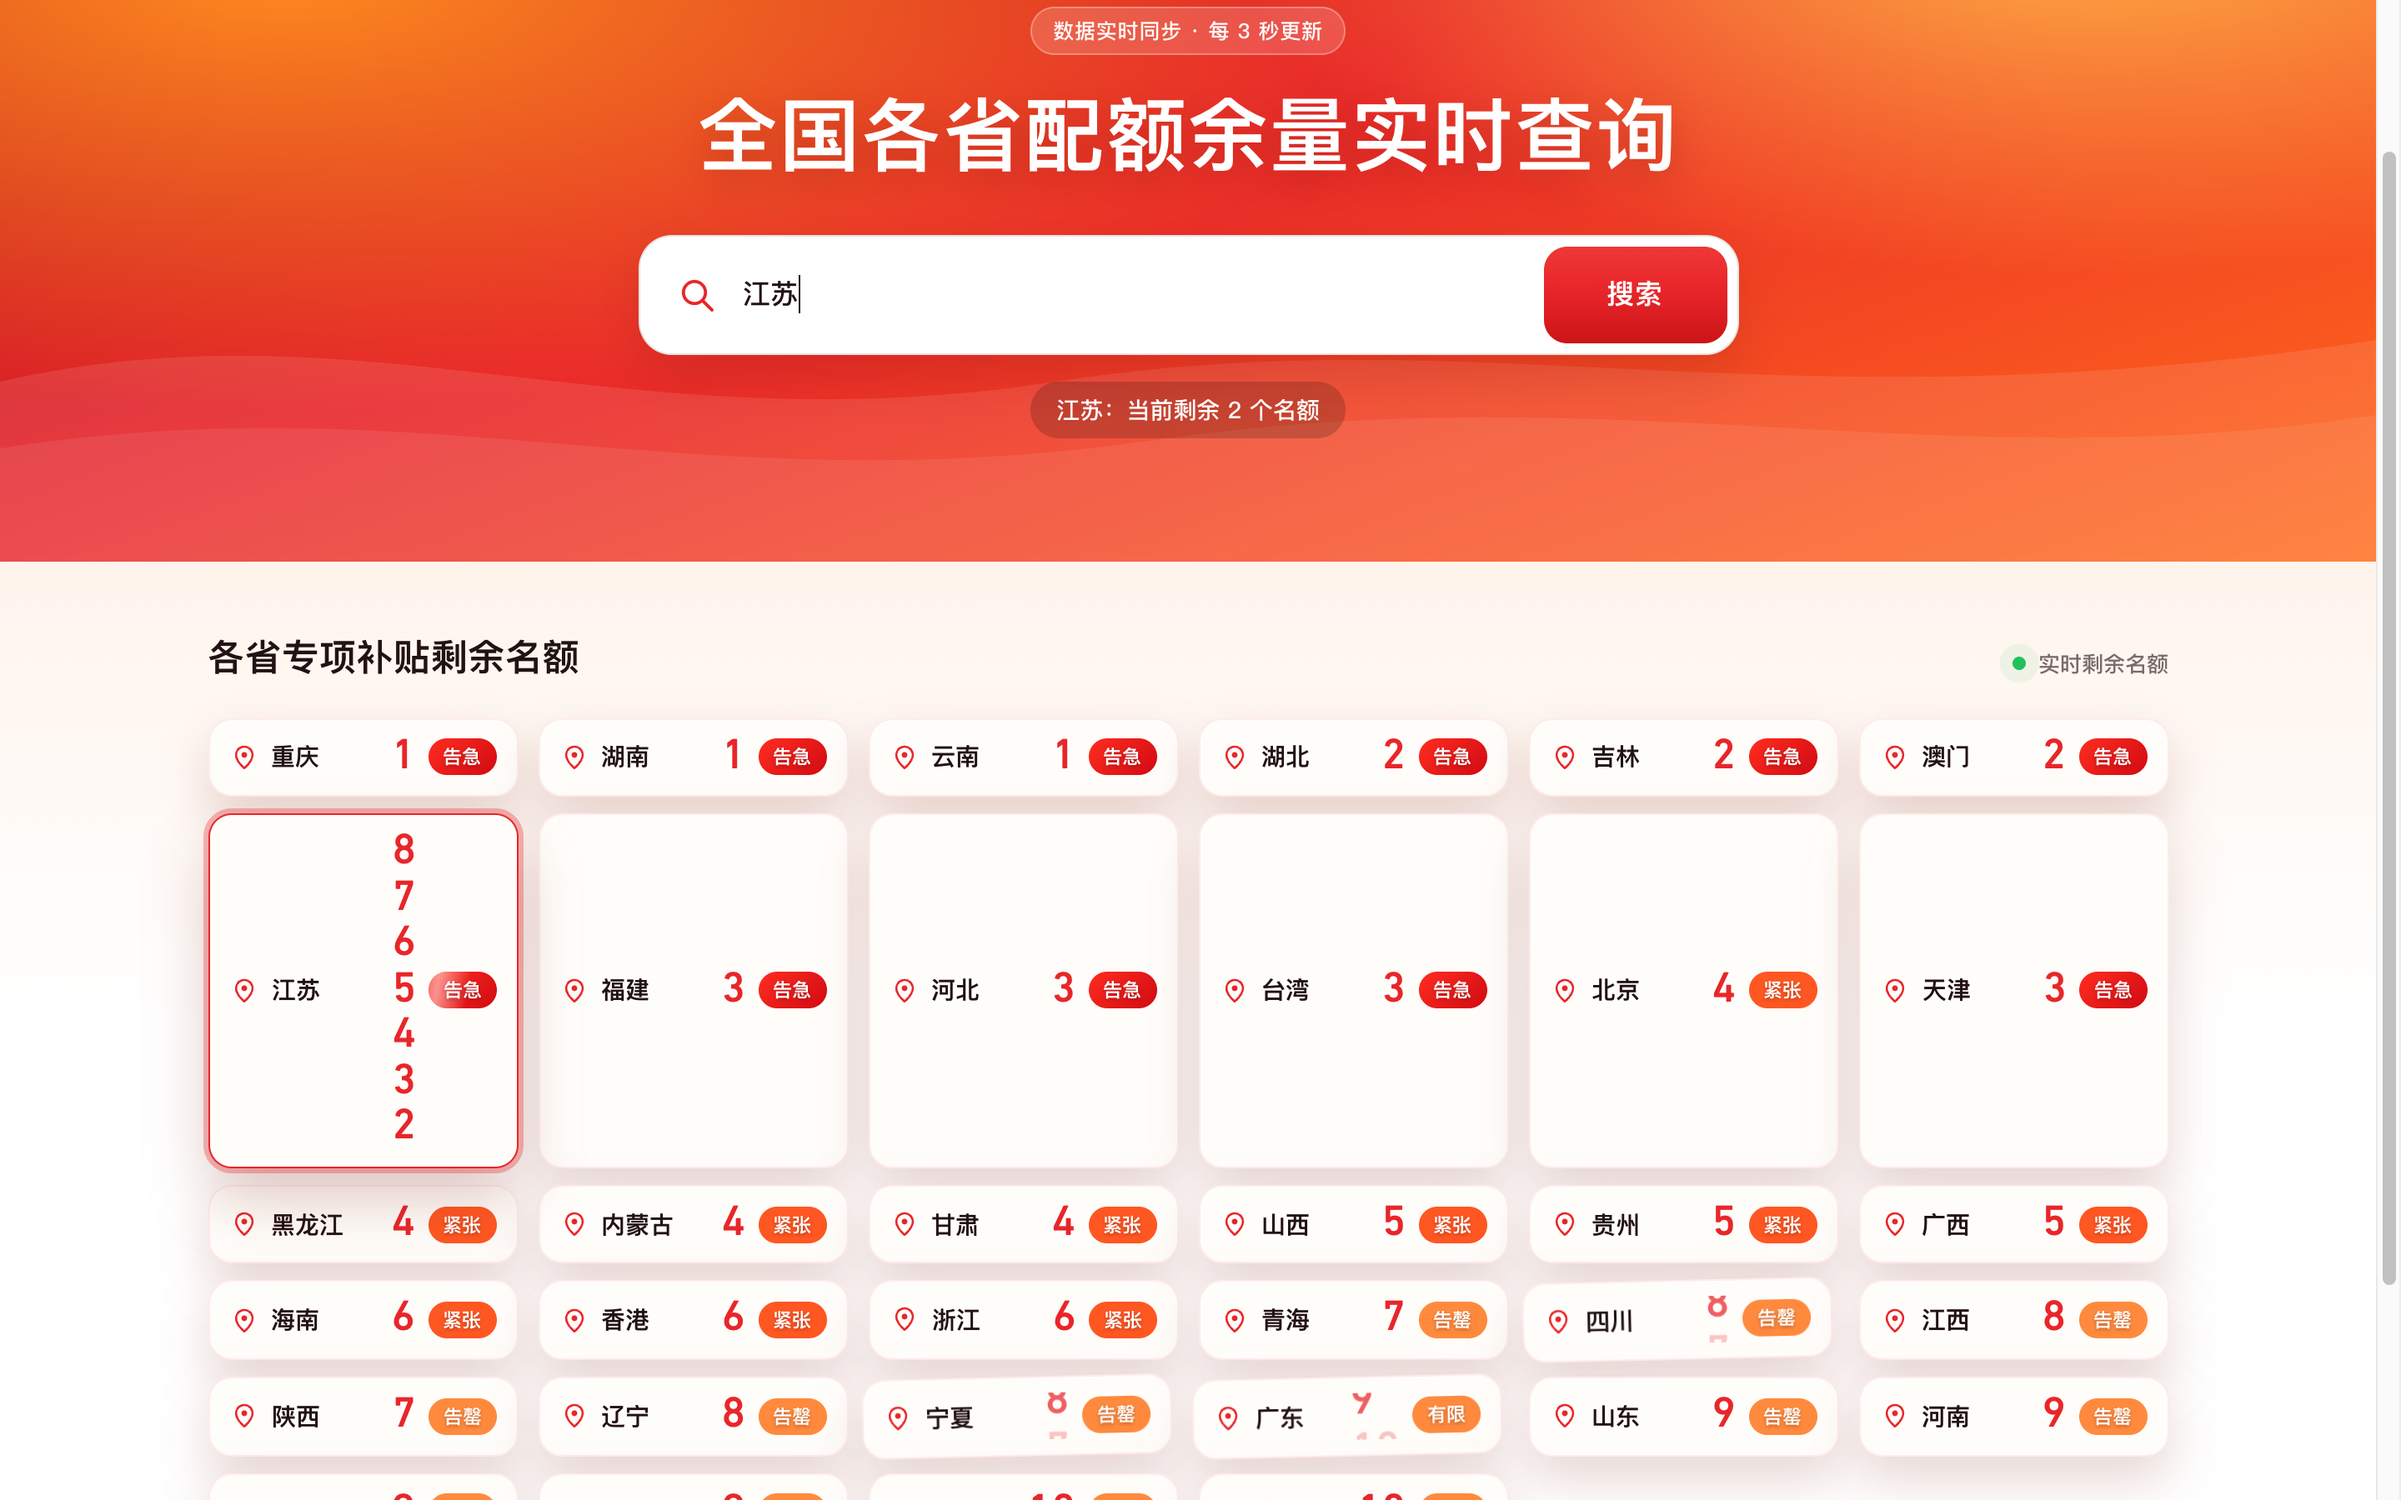
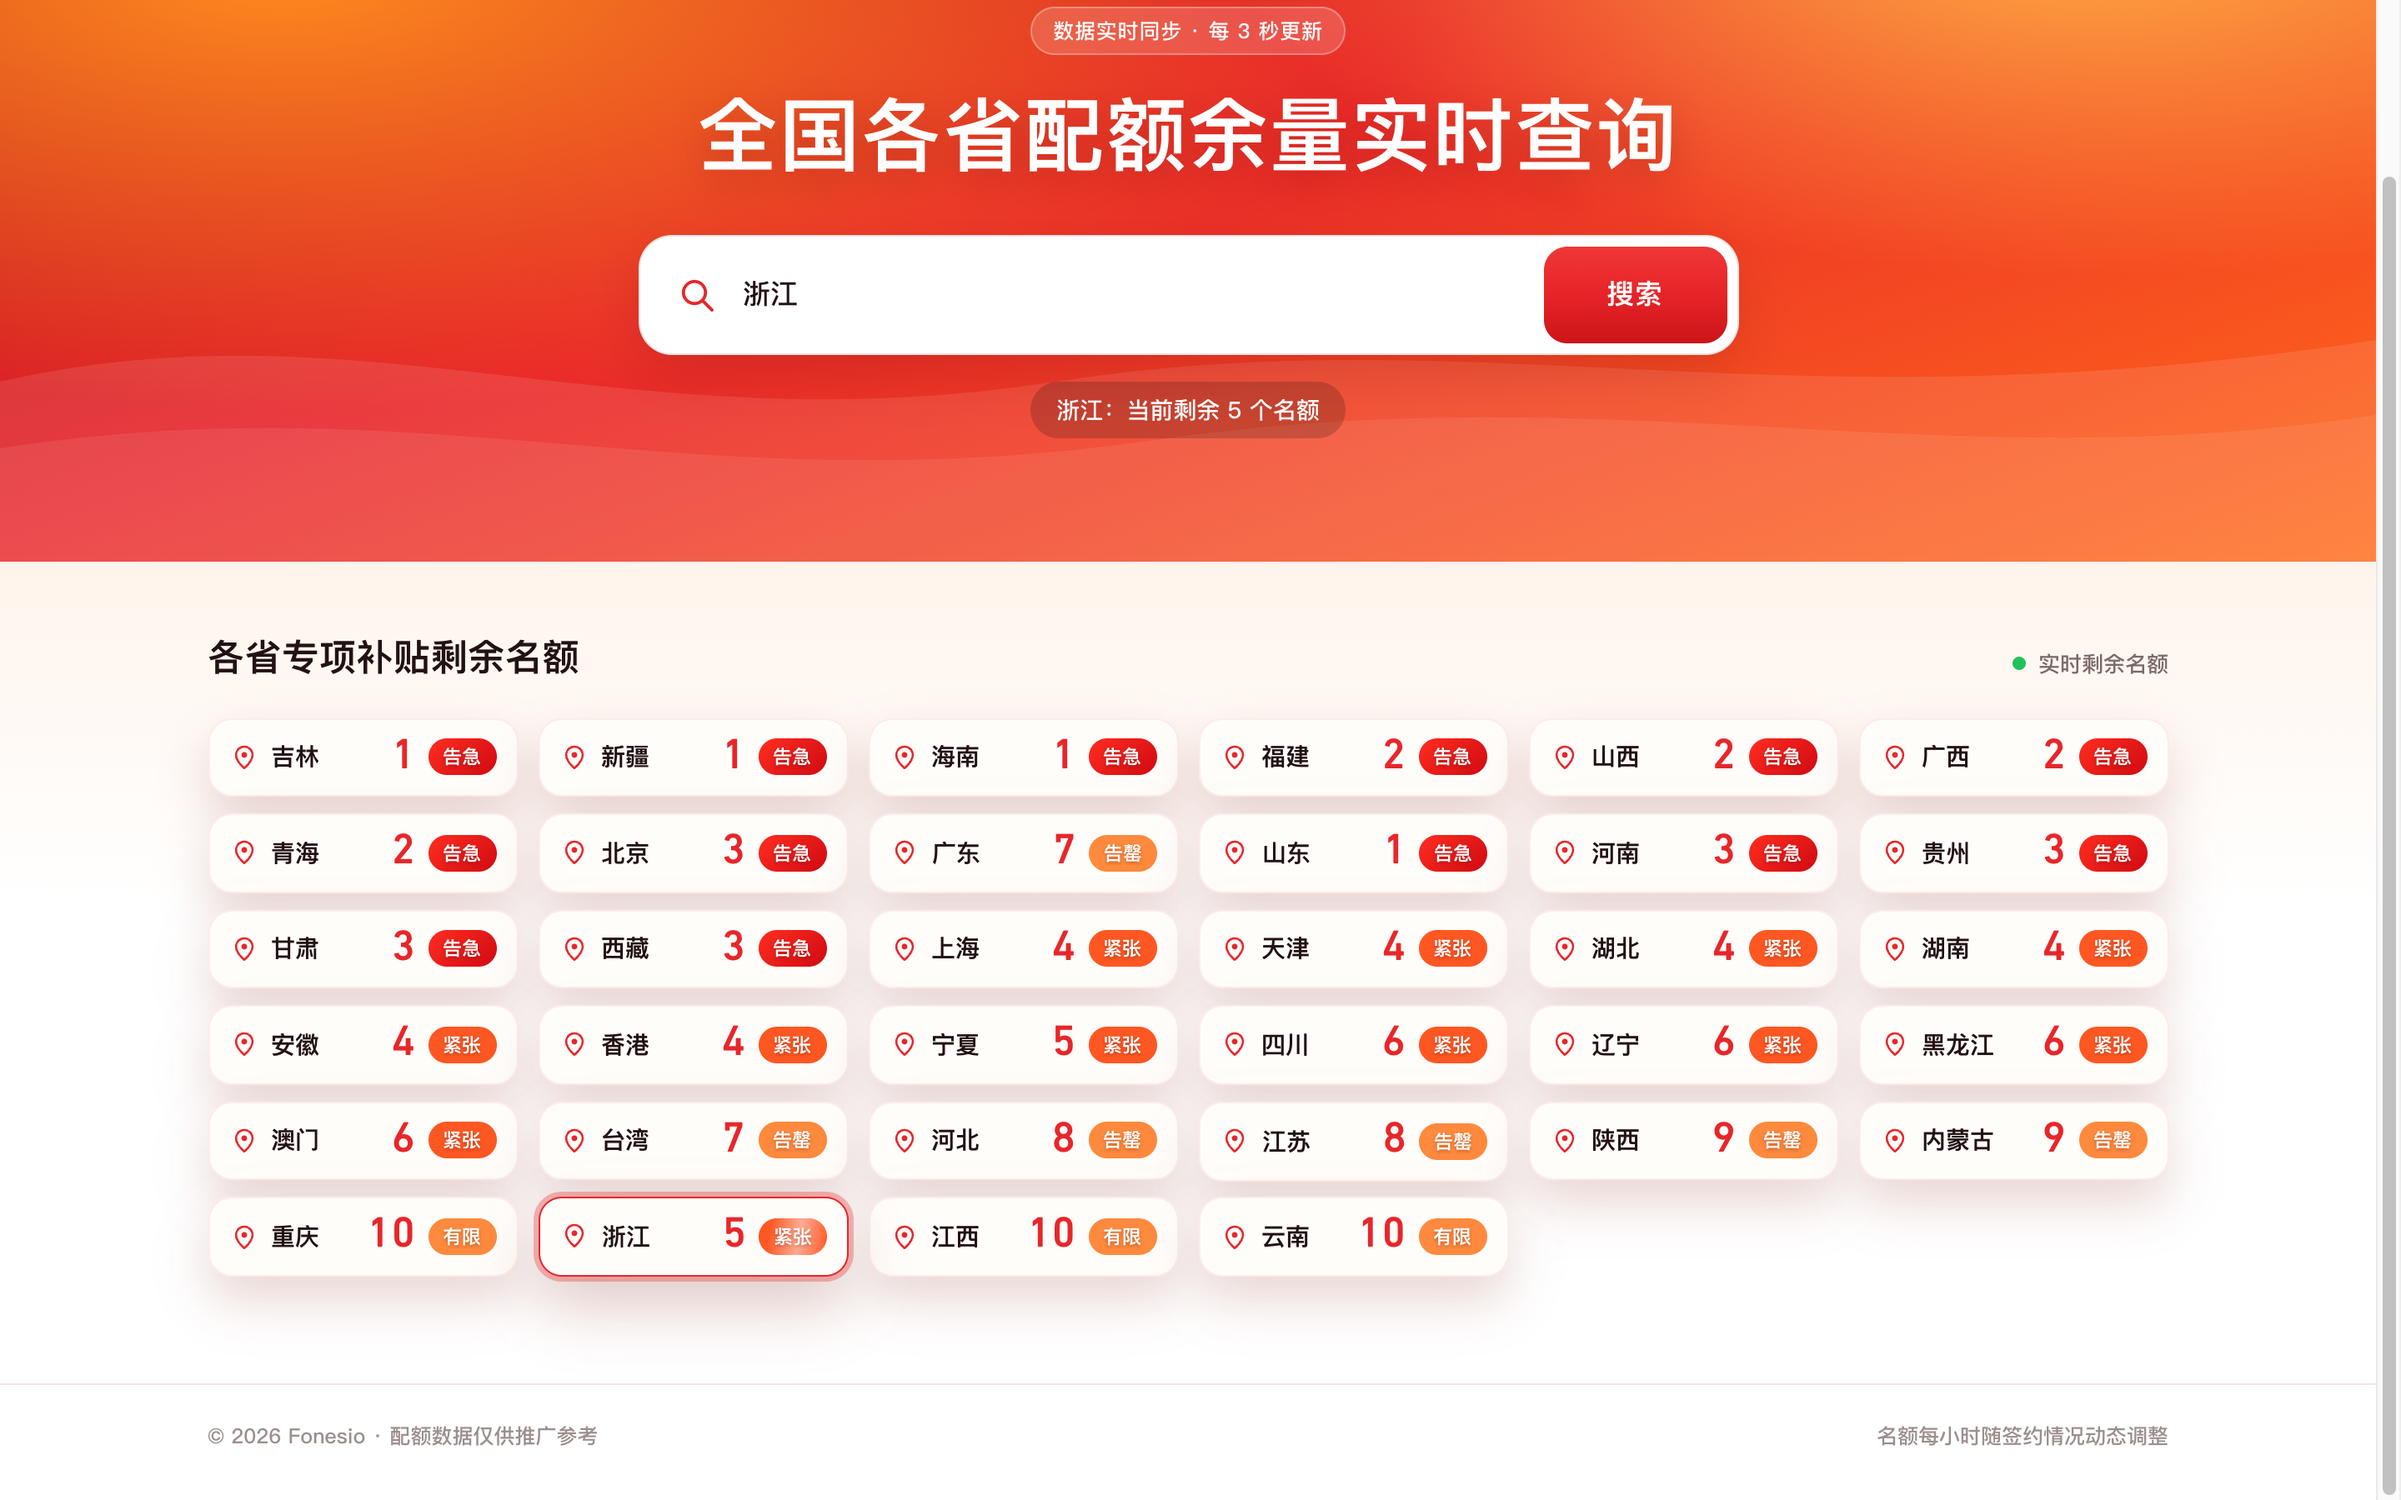
修复连点搜索后数字残留：滚动动画前清理上一轮节点，onfinish 加失效保护

diff --git a/assets/js/app.js b/assets/js/app.js
@@ -150,6 +150,21 @@
   function rollNumber(state, value) {
     const old = state.countNode;
     const wrap = old.parentNode;
+
+    // 连点保护：上一轮动画还没结束就再次改值时，先清掉残留节点与动画，
+    // 否则两轮动画各自完成后会留下旧数字，出现「2 和 1」两个数字叠在一张卡上
+    Array.prototype.forEach.call(wrap.querySelectorAll(".card__num"), function (node) {
+      if (node !== old) node.remove();
+    });
+    if (old.getAnimations) old.getAnimations().forEach(function (a) { a.cancel(); });
+    old.classList.remove("is-incoming");
+    old.style.position = "";
+    old.style.left = "";
+    old.style.top = "";
+    old.style.transform = "";
+    old.style.opacity = "";
+    wrap.style.width = "";
+
     const next = document.createElement("span");
     next.className = "card__num is-incoming";
     next.textContent = value;
@@ -173,6 +188,7 @@
     );
 
     incoming.onfinish = function () {
+      if (!next.parentNode) return; // 本轮已被新一轮滚动取代，不再改动 DOM
       if (old.parentNode) old.remove();
       next.classList.remove("is-incoming");
       next.style.position = "";

diff --git a/index.html b/index.html
@@ -4,7 +4,7 @@
 <meta charset="UTF-8" />
 <meta name="viewport" content="width=device-width, initial-scale=1" />
 <title>Fonesio · 全国各省配额余量实时查询</title>
-<link rel="stylesheet" href="assets/css/style.css?v=20261121d" />
+<link rel="stylesheet" href="assets/css/style.css?v=20261121e" />
 </head>
 <body>
 <header class="topbar">
@@ -63,6 +63,6 @@
   </svg>
 </button>
 
-<script src="assets/js/app.js?v=20261121d"></script>
+<script src="assets/js/app.js?v=20261121e"></script>
 </body>
 </html>
